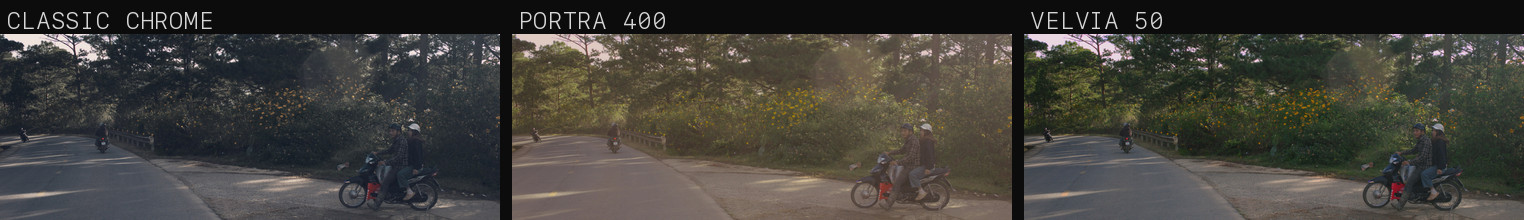
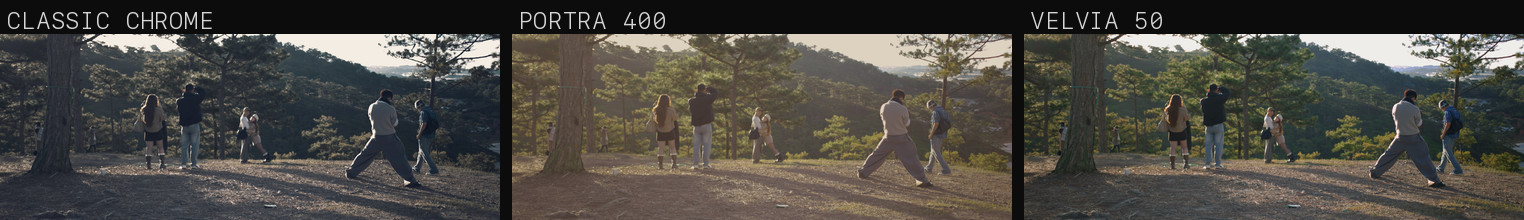
README: hero is IMG_9916, the lookout terrace, not the horse
The horse was picked off a 520 px strip and it does not survive being looked at:
a trunk bisects the frame, the animal is half behind it, another horse's tail
sits in the left third, and the frame has no white in it. Re-ranked every frame
on the card at full size, which also turned up three frames the first pass never
shortlisted because a face or a gesture is invisible at 260 px.

IMG_9916 wins: four people on a lookout terrace at golden hour, one mid-stride,
a couple embracing in the middle, layered hills behind. It is the only frame on
the card with a decisive moment, light, depth and subjects that survive a 1600 px
reduction -- and it is 65:24, so the module's framing claim survives with it.

The comparison strip is now the same frame as the hero, so "same frame, three
stocks" is literally true: sky, ground and clothing shift differently under each
recipe. Both regenerated with tools/make_promo.py from the card's raw files.

diff --git a/magiclantern/modules/film_sim/tools/make_promo.py b/magiclantern/modules/film_sim/tools/make_promo.py
@@ -33,13 +33,15 @@ RAWDEV = os.path.abspath(os.path.join(HERE, "..", "se", "hosttest", "rawdev"))
 FILMS = os.path.abspath(os.path.join(HERE, "..", "films"))
 OUT = os.path.abspath(os.path.join(HERE, "..", "..", "..", "..", "docs", "img"))
 
-# Hero: the horse in the pine grove. It has a subject, depth and a light source,
-# which is what makes a thumbnail readable; Portra is the warmest of the three
-# renderings tried and the one where the animal still reads at 500 px.
-HERO = ("IMG_9919", "portra", "Portra 400")
-# Comparison: two people on a road, so there is sky, foliage, tarmac and people
-# in one frame -- three stocks separate visibly here.
-COMPARE = ("IMG_9932", [("classicchrome", "Classic Chrome"),
+# Hero: four people on a viewing terrace, one of them mid-stride, in backlight
+# with layered hills behind. Chosen at full size, not from a thumbnail: it is the
+# only frame on the card with a decisive moment, light, depth and subjects that
+# survive a 1600 px reduction -- and it is 65:24, so the module's framing claim
+# survives with it.
+HERO = ("IMG_9916", "portra", "Portra 400")
+# The strip is the same frame, so "same frame, three stocks" is literally true:
+# sky, foliage and ground all shift differently under each recipe.
+COMPARE = ("IMG_9916", [("classicchrome", "Classic Chrome"),
                         ("portra", "Portra 400"),
                         ("velvia", "Velvia 50")])
 

diff --git a/README.md b/README.md
@@ -1,7 +1,7 @@
 # XPan Digital — Canon EOS 6D
 
-![A horse grazing in a sunlit pine grove, 65:24, developed from the raw with the
-Portra 400 recipe](docs/img/promo.jpg)
+![A group on a lookout terrace at golden hour, 65:24, developed from the raw
+with the Portra 400 recipe](docs/img/promo.jpg)
 
 One frame, one camera, one recipe: the 6D's raw, decoded and graded by this
 module's engine, cropped to the 65:24 window the camera framed. Đà Lạt,
@@ -9,9 +9,9 @@ module's engine, cropped to the 65:24 window the camera framed. Đà Lạt,
 
 ![The same frame through Classic Chrome, Portra 400 and Velvia 50](docs/img/looks.jpg)
 
-The same frame through three shipped recipes. A stock here is a bundle — curve,
-hue axes, split tone, grain — not a colour filter, and the difference between
-these three is the whole product.
+The same frame through three shipped recipes — cool and muted, warm and open,
+saturated and contrasty. A stock here is a bundle of curve, hue axes, split tone
+and grain, not a colour filter, and the gap between these three is the product.
 
 > ## Disclaimer — read before installing
 >
